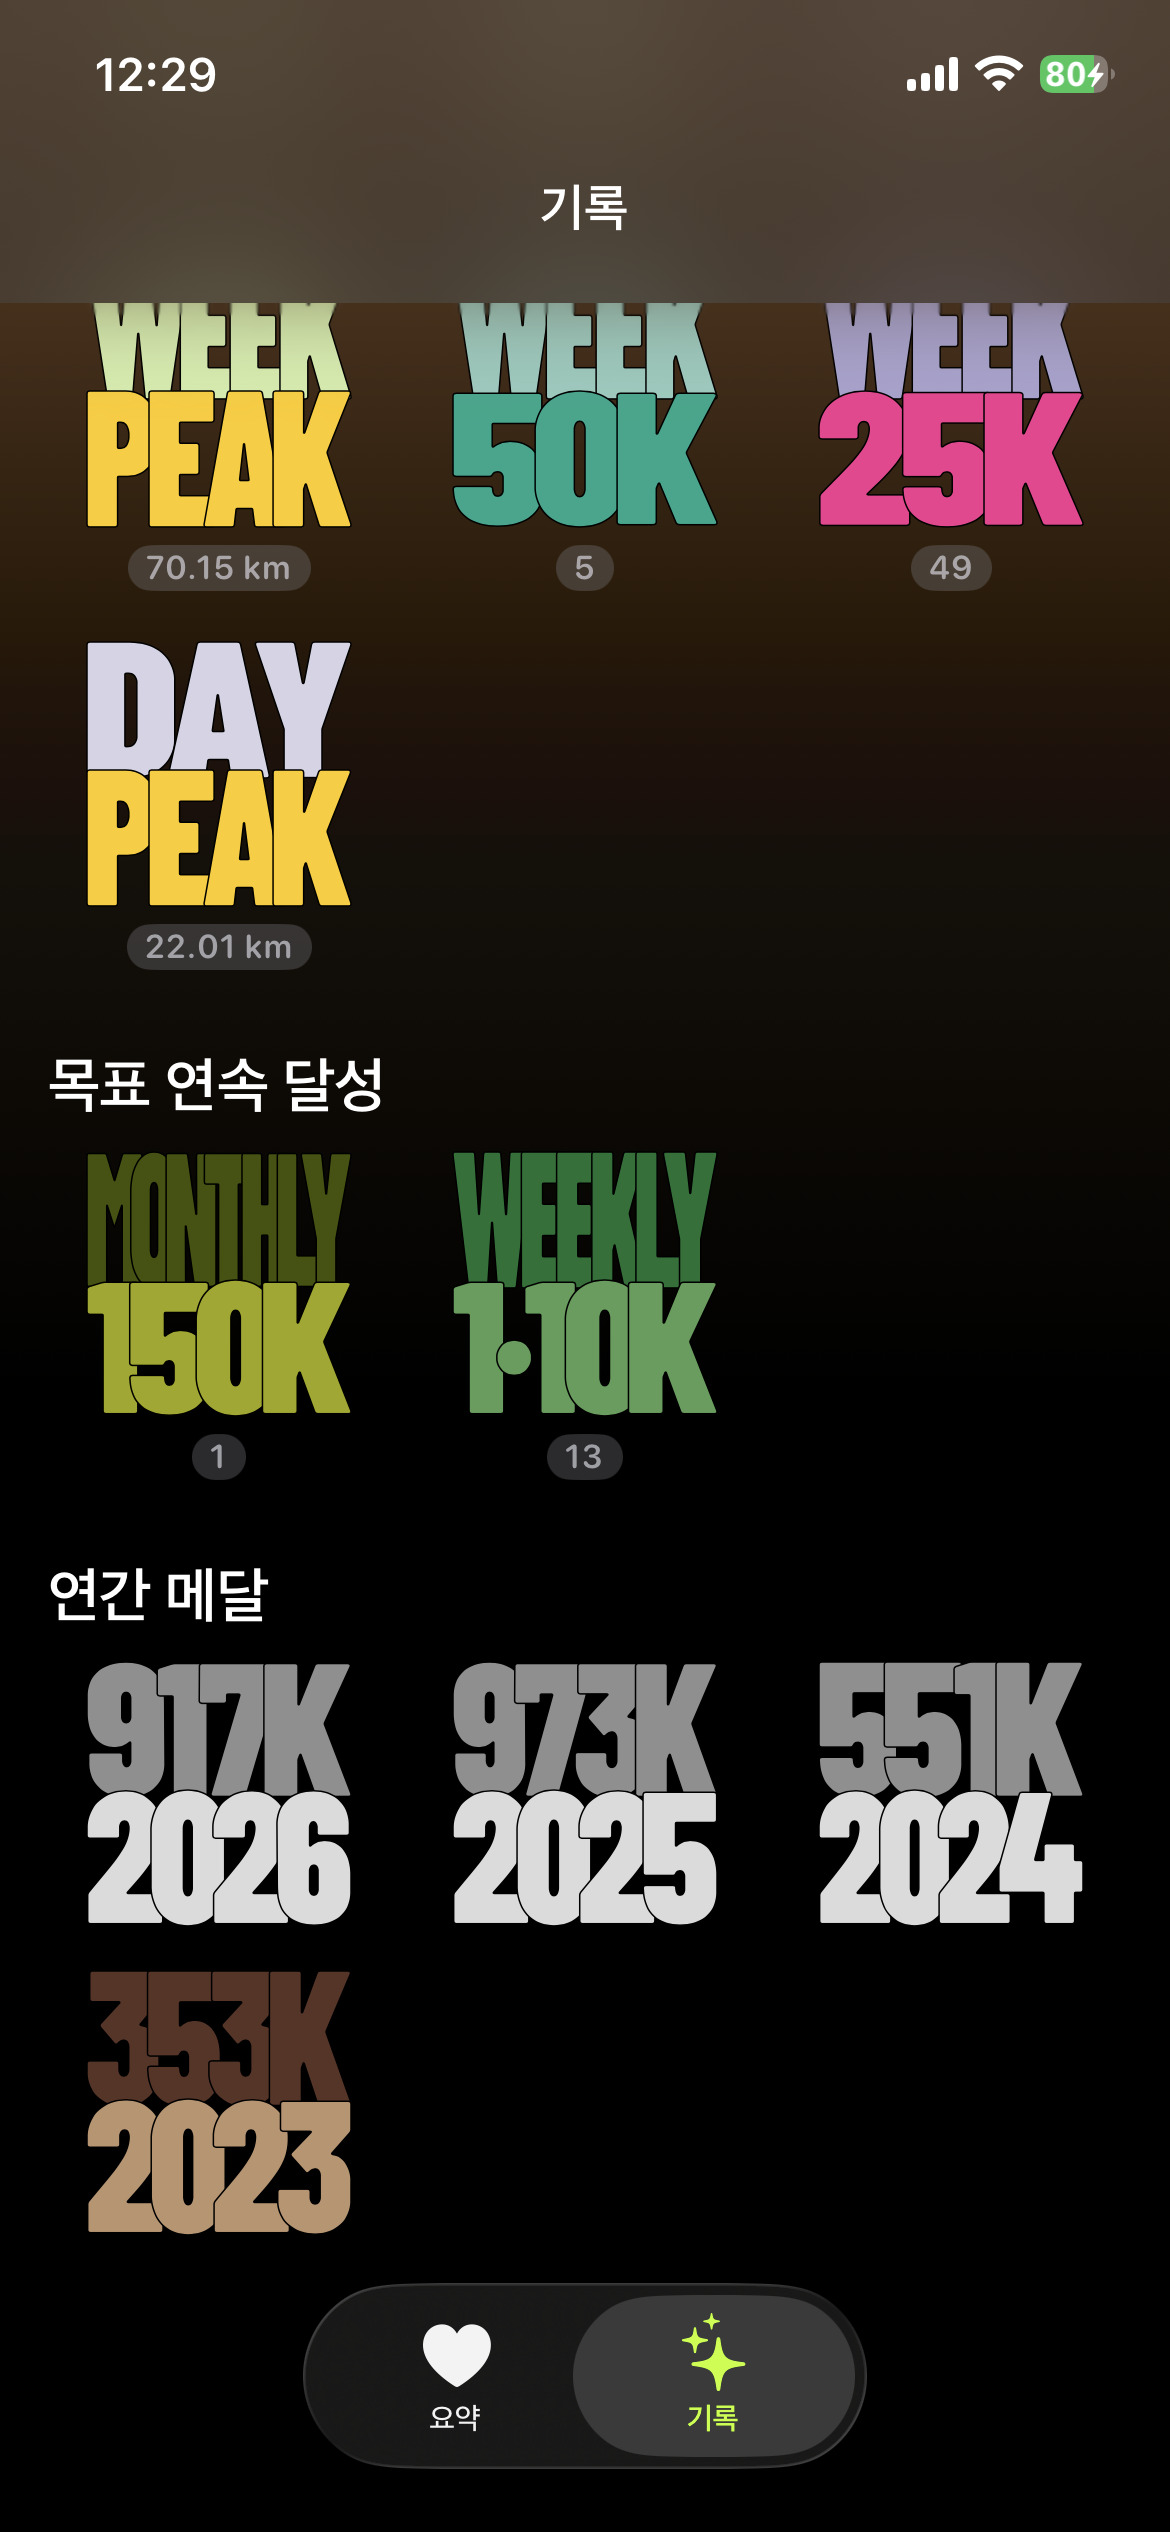
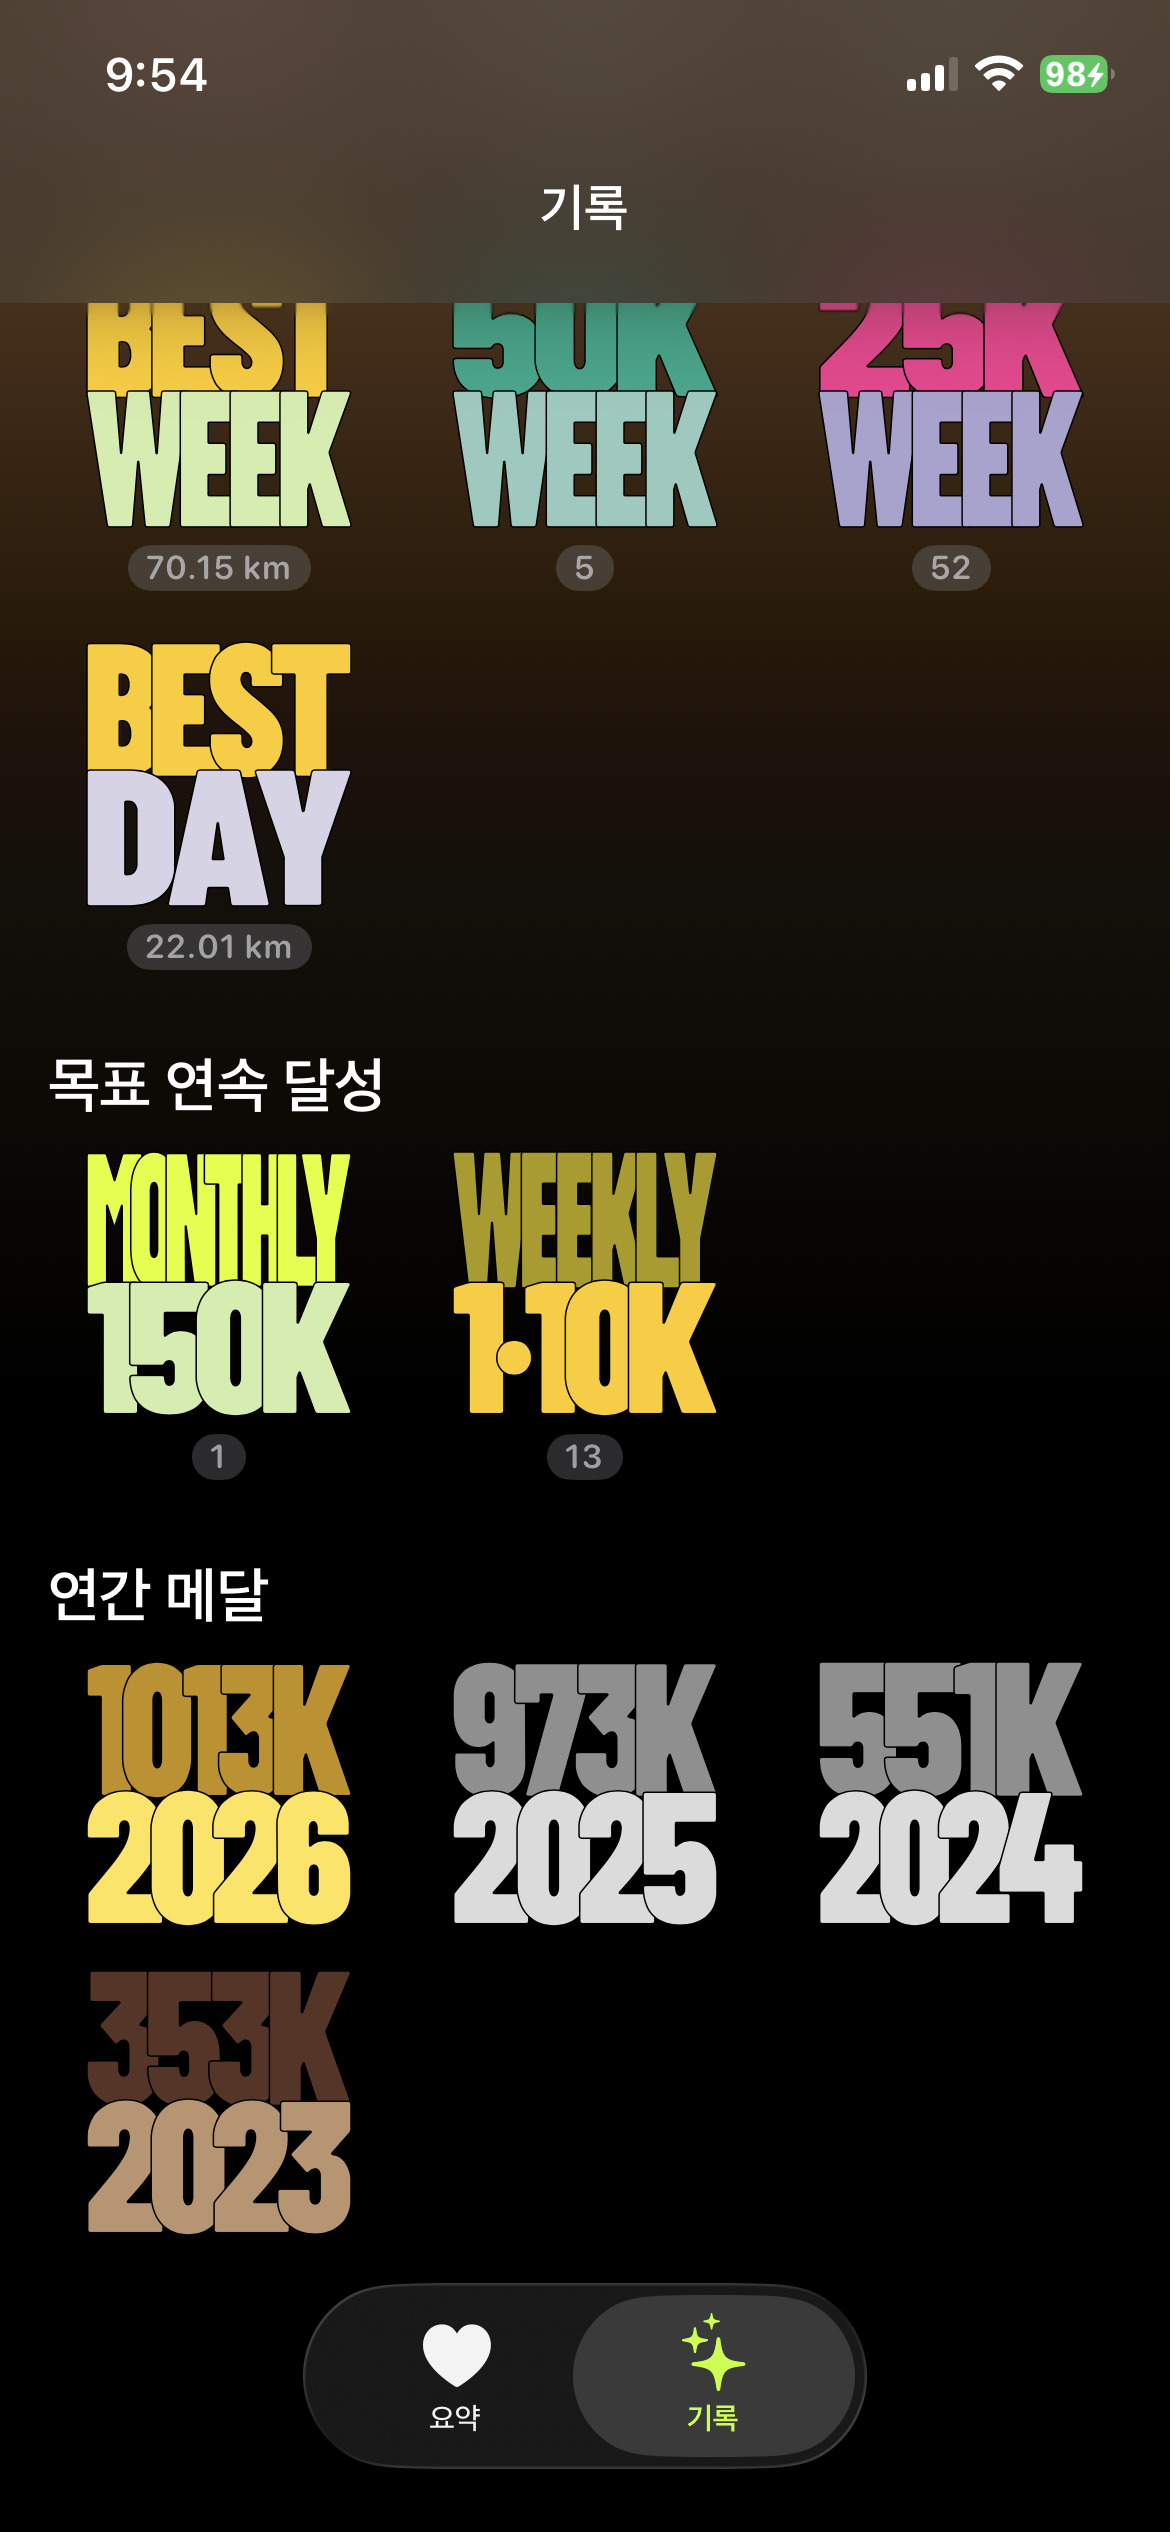
Rename peak→best identifiers of badges

diff --git a/awards.html b/awards.html
@@ -743,10 +743,10 @@
         <h3>기간별 최고 거리</h3>
         <p class="note">하루, 주, 월, 년 단위로 가장 멀리 달린 기간을 별도 배지로 보여줍니다.</p>
         <div class="badge-grid">
-          <article class="badge-card"><img src="assets/badges/peak-day.png" alt="Best Day 배지" /><strong>Best Day</strong><span>하루 최고 거리</span></article>
-          <article class="badge-card"><img src="assets/badges/peak-week.png" alt="Best Week 배지" /><strong>Best Week</strong><span>주간 최고 거리</span></article>
-          <article class="badge-card"><img src="assets/badges/peak-month.png" alt="Best Month 배지" /><strong>Best Month</strong><span>월간 최고 거리</span></article>
-          <article class="badge-card"><img src="assets/badges/peak-year.png" alt="Best Year 배지" /><strong>Best Year</strong><span>연간 최고 거리</span></article>
+          <article class="badge-card"><img src="assets/badges/best-day.png" alt="Best Day 배지" /><strong>Best Day</strong><span>하루 최고 거리</span></article>
+          <article class="badge-card"><img src="assets/badges/best-week.png" alt="Best Week 배지" /><strong>Best Week</strong><span>주간 최고 거리</span></article>
+          <article class="badge-card"><img src="assets/badges/best-month.png" alt="Best Month 배지" /><strong>Best Month</strong><span>월간 최고 거리</span></article>
+          <article class="badge-card"><img src="assets/badges/best-year.png" alt="Best Year 배지" /><strong>Best Year</strong><span>연간 최고 거리</span></article>
         </div>
       </div>
 
